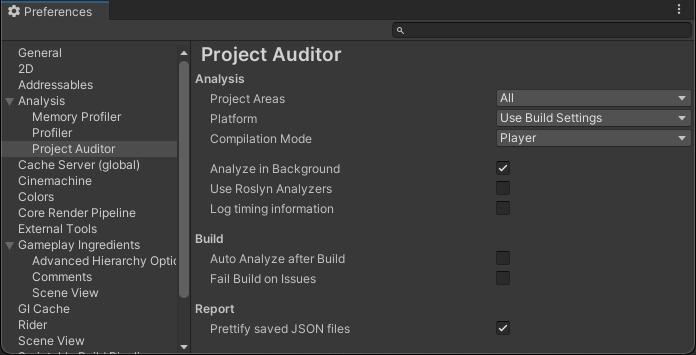
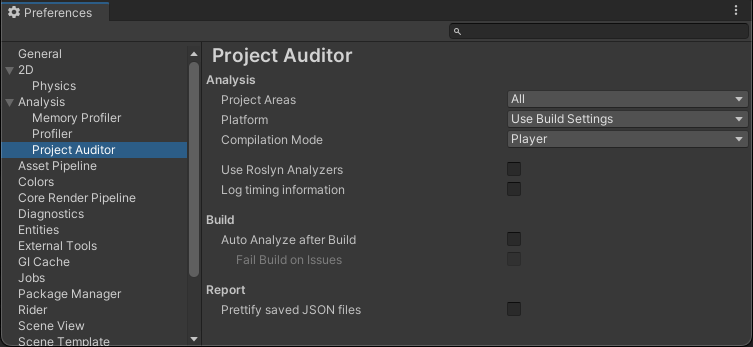
Removed Analyze In Background option
Code analysis is now ALWAYS multithreaded

diff --git a/com.unity.project-auditor/Editor/Modules/CodeModule.cs b/com.unity.project-auditor/Editor/Modules/CodeModule.cs
@@ -141,7 +141,7 @@ namespace Unity.ProjectAuditor.Editor.Modules
             if (m_Ids == null)
                 throw new Exception("Descriptors Database not initialized.");
 
-            if (UserPreferences.AnalyzeInBackground && m_AssemblyAnalysisThread != null)
+            if (m_AssemblyAnalysisThread != null)
                 m_AssemblyAnalysisThread.Join();
 
             var context = new AnalysisContext()
@@ -302,23 +302,13 @@ namespace Unity.ProjectAuditor.Editor.Modules
             if (progress?.IsCancelled ?? false)
                 return AnalysisResult.Cancelled;
 
-            var enableBackgroundAnalysis = UserPreferences.AnalyzeInBackground;
+            // second phase: analyze all remaining assemblies, in a separate thread
+            m_AssemblyAnalysisThread = new Thread(() =>
+                AnalyzeAssemblies(readOnlyAssemblyInfos, analysisParams.AssemblyNames, assemblyDirectories, onCallFound, onIssueFoundInternal, onCompleteInternal));
+            m_AssemblyAnalysisThread.Name = "Assembly Analysis";
+            m_AssemblyAnalysisThread.Priority = ThreadPriority.BelowNormal;
+            m_AssemblyAnalysisThread.Start();
 
-            // second phase: analyze all remaining assemblies, in a separate thread if enableBackgroundAnalysis is enabled
-            if (enableBackgroundAnalysis)
-            {
-                m_AssemblyAnalysisThread = new Thread(() =>
-                    AnalyzeAssemblies(readOnlyAssemblyInfos, analysisParams.AssemblyNames, assemblyDirectories, onCallFound, onIssueFoundInternal, onCompleteInternal));
-                m_AssemblyAnalysisThread.Name = "Assembly Analysis";
-                m_AssemblyAnalysisThread.Priority = ThreadPriority.BelowNormal;
-                m_AssemblyAnalysisThread.Start();
-            }
-            else
-            {
-                Profiler.BeginSample("CodeModule.Audit.AnalysisReadOnly");
-                AnalyzeAssemblies(readOnlyAssemblyInfos, analysisParams.AssemblyNames, assemblyDirectories, onCallFound, onIssueFoundInternal, onCompleteInternal, progress);
-                Profiler.EndSample();
-            }
             Profiler.EndSample();
 
             if (progress?.IsCancelled ?? false)

diff --git a/com.unity.project-auditor/Editor/UserPreferences.cs b/com.unity.project-auditor/Editor/UserPreferences.cs
@@ -38,9 +38,6 @@ namespace Unity.ProjectAuditor.Editor
         static readonly GUIContent CompilationModeSelection =
             new GUIContent("Compilation Mode", "Select the compilation mode.");
 
-        static readonly string k_AnalysisInBackgroundLabel = "Analyze in Background";
-        static readonly bool k_AnalysisInBackgroundDefault = true;
-
         static readonly string k_UseRoslynAnalyzersLabel = "Use Roslyn Analyzers";
         static readonly bool k_UseRoslynAnalyzersDefault = false;
 
@@ -68,16 +65,6 @@ namespace Unity.ProjectAuditor.Editor
         {
             get => EditorPrefs.GetBool(MakeKey(nameof(AnalyzeAfterBuild)), k_AnalyzeAfterBuildDefault);
             set => EditorPrefs.SetBool(MakeKey(nameof(AnalyzeAfterBuild)), value);
-        }
-
-
-        /// <summary>
-        /// If enabled, ProjectAuditor will try to partially analyze the project in the background.
-        /// </summary>
-        public static bool AnalyzeInBackground
-        {
-            get => EditorPrefs.GetBool(MakeKey(nameof(AnalyzeInBackground)), k_AnalysisInBackgroundDefault);
-            set => EditorPrefs.SetBool(MakeKey(nameof(AnalyzeInBackground)), value);
         }
 
         /// <summary>
@@ -210,7 +197,6 @@ namespace Unity.ProjectAuditor.Editor
 
             GUILayout.Space(10f);
 #endif
-            AnalyzeInBackground = EditorGUILayout.Toggle(k_AnalysisInBackgroundLabel, AnalyzeInBackground);
             UseRoslynAnalyzers = EditorGUILayout.Toggle(k_UseRoslynAnalyzersLabel, UseRoslynAnalyzers);
             LogTimingsInfo = EditorGUILayout.Toggle(k_LogTimingsInfoLabel, LogTimingsInfo);
 

diff --git a/com.unity.project-auditor/Editor/TestUtils/TestFixtureBase.cs b/com.unity.project-auditor/Editor/TestUtils/TestFixtureBase.cs
@@ -29,7 +29,6 @@ namespace Unity.ProjectAuditor.Editor.Tests.Common
         protected string m_SavedCompanyName;
         protected string m_SavedProductName;
         bool m_SavedBakeCollisionMeshes;
-        bool m_SavedAnalyzeInBackground;
         bool m_SavedAnalyzeAfterBuild;
 
         protected ReportItem[] m_ReportItems;
@@ -50,9 +49,6 @@ namespace Unity.ProjectAuditor.Editor.Tests.Common
 
         protected TestFixtureBase()
         {
-            m_SavedAnalyzeInBackground = UserPreferences.AnalyzeInBackground;
-            UserPreferences.AnalyzeInBackground = false;
-
             m_SavedAnalyzeAfterBuild = UserPreferences.AnalyzeAfterBuild;
             UserPreferences.AnalyzeAfterBuild = false;
 
@@ -97,7 +93,6 @@ namespace Unity.ProjectAuditor.Editor.Tests.Common
 
             CleanupBuild();
 
-            UserPreferences.AnalyzeInBackground = m_SavedAnalyzeInBackground;
             UserPreferences.AnalyzeAfterBuild = m_SavedAnalyzeAfterBuild;
         }
 

diff --git a/com.unity.project-auditor/Documentation~/Configuration.md b/com.unity.project-auditor/Documentation~/Configuration.md
@@ -52,11 +52,6 @@ how to treat those compiled assemblies. The default option is **Player**. The op
 | Editor Play Mode   | Analysis will be performed on the assemblies which are used in Play Mode. Because these assemblies are cached by the Editor, Project Auditor skips the compilation step which speeds up analysis. The analyzed code may not be completely representative of the code that would appear in a Player build, but may be a reasonable approximation for many purposes. |
 | Editor             | Analysis will be performed only on Editor code assemblies. Select this option to analyze custom Editor code, including the contents of packages.                                                                                                                                                                                                                   |
 
-#### Analyze in Background
-Code analysis can be one of the more time-consuming aspects of Project Auditor's analysis. If this option is selected,
-Project Auditor will show the Summary View and allow navigation around non-code-related Views whilst code analysis is
-completed in the background. A spinner icon on the toolbar indicates when code analysis is being performed.
-
 #### Use Roslyn Analyzers
 Project Auditor supports Roslyn analyzers, including one that reports issues impacting domain reload times. Roslyn
 analyzers can slow down the code compilation step of the analysis process, so this option can be used to disable Roslyn
